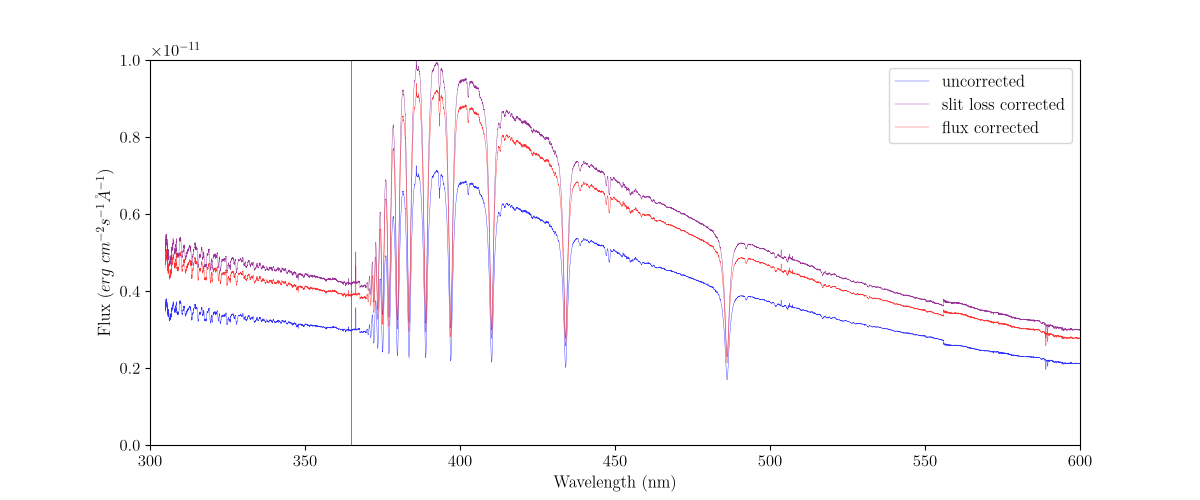
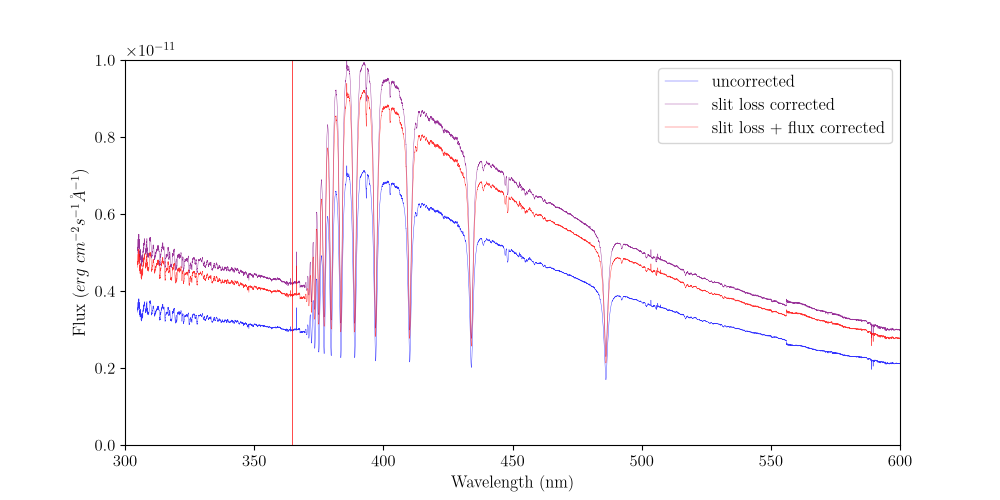
updating plots

diff --git a/HIP_40594.py b/HIP_40594.py
@@ -14,10 +14,10 @@ h = 6.62607015e-27  # in erg cgs
 c = 2.99792458e10  
 k = 1.380649e-16
 
-def planck_law(wavelength, temperature):
+def planck_law(wavelength, temperature, dist):
     """Planck's Law gives the blackbody curve"""
     exponent = (h * c) / (wavelength * 1e-7 * k * temperature)
-    sr = 2 * 1e-27 * (2 * h * c**2) / ((wavelength*1e-7)**5 * (np.exp(exponent) - 1))
+    sr = (1 / (4 * np.pi * (dist * 3.0857e10)**2)) * (2 * h * c**2) / ((wavelength*1e-7)**5 * (np.exp(exponent) - 1))
     return sr
 
 
@@ -129,11 +129,6 @@ print(f'After Slitloss UVB-VIS: {diff1:.2f}%, VIS-NIR: {diff2:.2f}%')
 
 star = df0.loc[df0['Name'] == 'HIP 40594'].iloc[0]
 
-
-
-
-
-
 plt.figure(figsize=(12,5))
 plt.plot(wave,err, c = 'red')
 plt.ylim(0,0.5e-12)
@@ -150,7 +145,6 @@ print(f'Rmag: {R_mag}')
 filters = ['OneDrive - Maynooth University/Project/BESSEL_B.fit',
            'OneDrive - Maynooth University/Project/BESSEL_V.fit',
            'OneDrive - Maynooth University/Project/BESSEL_R.fit']
-colours = ['cyan','green','red']
 names = ['B', 'V', 'R']
 
 transmit_f = []
@@ -195,24 +189,32 @@ print(f'Vmag: {magV_scaled}')
 print(f'Rmag: {magR_scaled}')
 
 
-plt.figure(figsize=(12,5))
+fig, ax1 = plt.subplots(figsize=(10,5))
+ax2 = ax1.twinx()
+colours1 = ['red', 'blue', 'green']
 for i in range(3):
-    plt.plot(waves[i],fluxes[i],linewidth = 0.1, alpha = 0.8, color = colours[i])
-    plt.plot(waves[i],fluxes_slitloss[i],linewidth = 0.1, alpha = 0.8, color = colours[i])
-    plt.plot(waves[i],fluxes_phot[i],linewidth = 0.1, alpha = 0.8, color = colours[i])
+    ax1.plot(waves[i],fluxes[i],linewidth = 0.2, alpha = 0.3, color = colours1[i])
+    ax1.plot(waves[i],fluxes_slitloss[i],linewidth = 0.2, alpha = 0.6, color = colours1[i])
+    ax1.plot(waves[i],fluxes_phot[i],linewidth = 0.2, alpha = 0.9, color = colours1[i])
+    ax2.plot(wave_f, transmit_f[i], lw = 0.5, color = colours[i], label = names[i])
 temp = star['Teff']
-plt.plot(wave,planck_law(wave, temp), c ='magenta')
-plt.ylim(0,1e-11)
-plt.xlim(o, 1500)
-plt.xlabel(r'Wavelength (nm)')
-plt.ylabel(r'Flux ($erg\ cm^{-2} s^{-1} \AA^{-1}$)')
+dist = star['Dist']
+ax1.plot(wave,planck_law(wave, temp, dist), c ='magenta', lw = '0.4', label = 'Blackbody Curve')
+ax1.set_ylim(0,1e-11)
+ax2.set_ylim(0, 1.2)
+ax1.set_xlim(o, 900)
+ax1.set_xlabel(r'Wavelength (nm)')
+ax1.set_ylabel(r'Flux ($erg\ cm^{-2} s^{-1} \AA^{-1}$)')
+ax2.set_ylabel(r'Filter Transmission')
+ax1.legend()
+ax2.legend()
 
 plt.savefig("GitHub/StellarAtmosphereModelling/figures/HIP_40594_corrections")
 
-plt.figure(figsize=(12,5))
+plt.figure(figsize=(10,5))
 plt.plot(wave,flux,linewidth = 0.3, c = 'blue', alpha = 0.8, label = 'uncorrected')
 plt.plot(wave,flux_slitloss,linewidth = 0.3, c = 'purple', alpha = 0.8, label = 'slit loss corrected')
-plt.plot(wave,flux_phot,linewidth = 0.3, c = 'red', alpha = 0.8, label = 'flux corrected')
+plt.plot(wave,flux_phot,linewidth = 0.3, c = 'red', alpha = 0.8, label = 'slit loss + flux corrected')
 plt.ylim(0,1e-11)
 plt.axvline(364.7, linewidth = 0.5, c = 'r')
 plt.xlim(o,600)
